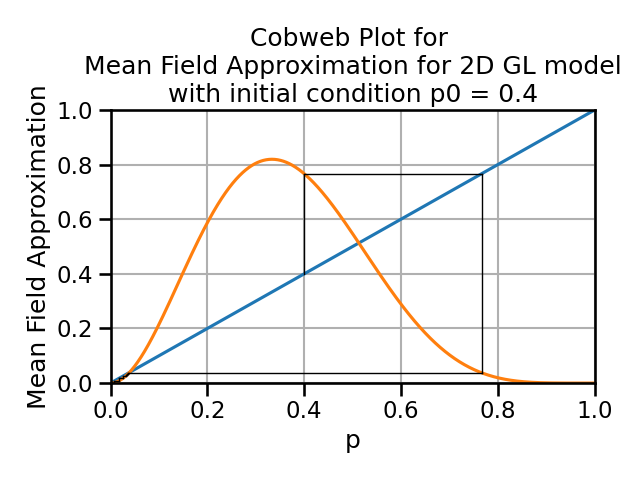
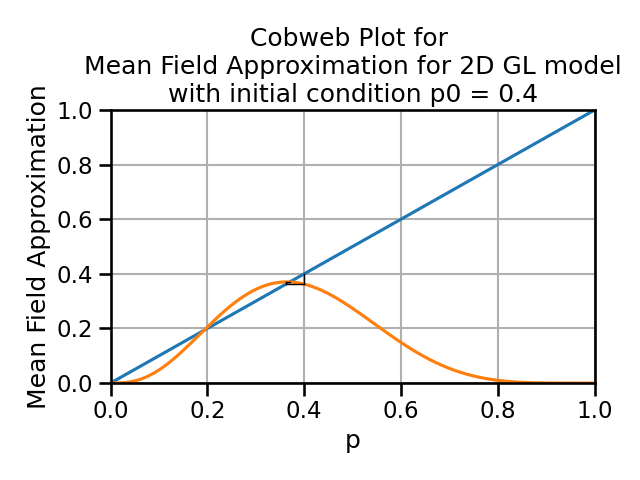
update Q12.7

diff --git a/homeworks/HW2/scripts/Q12.7/GL2D_Simulation.py b/homeworks/HW2/scripts/Q12.7/GL2D_Simulation.py
@@ -9,32 +9,58 @@ def game_of_life_step(grid):
                     if (i != 0 or j != 0))
     return (neighbors == 3) | (grid & (neighbors == 2))
 
-# Initialize the grid
+# Function to run the simulation for a given number of iterations
+def run_simulation(p0, size, iterations):
+    grid = np.random.choice([0, 1], size=(size, size), p=[1-p0, p0])
+    densities = []
+
+    for _ in range(iterations):
+        grid = game_of_life_step(grid)
+        densities.append(np.mean(grid))
+    
+    return densities
+
+# Parameters
 size = 100
-grid = np.random.choice([0, 1], size=(size, size), p=[0.5, 0.5])
-
-# Run the simulation and track the average density
 iterations = 100
-densities = []
+monte_carlo_runs = 100
 
-for _ in range(iterations):
-    grid = game_of_life_step(grid)
-    densities.append(np.mean(grid))
+for p0 in [0.1, 0.2, 0.3, 0.4, 0.5, 0.6, 0.7, 0.8, 0.9]:
+    # Run Monte Carlo simulation
+    all_densities = []
 
-# Mean Field Approximation
-def MeanFieldApproximation_GL2D(p):
-    return p * (28 * p**2 * (1 - p)**6 + 56 * p**3 * (1 - p)**5) + (1 - p) * (56 * p**3 * (1 - p)**5)
+    for _ in range(monte_carlo_runs):
+        densities = run_simulation(p0, size, iterations)
+        all_densities.append(densities)
 
-# Plotting
-sns.set_context('talk')
-p = np.linspace(0, 1, 100)
-mfa = [MeanFieldApproximation_GL2D(pi) for pi in p]
+    # Convert to numpy array for easier manipulation
+    all_densities = np.array(all_densities)
 
-plt.plot(densities, label='Simulation', color='deepskyblue')
-plt.plot(p, mfa, label='Mean Field Approximation', color='red')
-plt.xlabel('Iterations')
-plt.ylabel('Average Density')
-plt.title('Mean Field Approximation vs. Simulation')
-plt.legend()
-plt.tight_layout()
-plt.savefig('../../simulation_figures/Q12.7/MeanFieldApproximation_vs_Simulation.png')
+    # Calculate mean and 95% confidence interval
+    mean_densities = np.mean(all_densities, axis=0)
+    std_densities = np.std(all_densities, axis=0)
+    ci_lower = mean_densities - 1.96 * std_densities / np.sqrt(monte_carlo_runs)
+    ci_upper = mean_densities + 1.96 * std_densities / np.sqrt(monte_carlo_runs)
+
+    # Mean Field Approximation
+    def MeanFieldApproximation_GL2D(p):
+        return p * (28 * p**2 * (1 - p)**6 + 56 * p**3 * (1 - p)**5) + (1 - p) * (56 * p**3 * (1 - p)**5)
+
+    # Iterate MFA for the same number of steps as the simulation
+    mfa_values = [p0]  # Initial density
+    for _ in range(iterations - 1):
+        mfa_values.append(MeanFieldApproximation_GL2D(mfa_values[-1]))
+
+    # Plotting
+    sns.set_context('talk')
+
+    plt.figure(figsize=(12, 8))
+    plt.plot(mean_densities, label='Simulation Mean')
+    plt.fill_between(range(iterations), ci_lower, ci_upper, color='b', alpha=0.2, label='95% CI')
+    plt.plot(range(iterations), mfa_values, label='Mean Field Approximation', linestyle='--')
+    plt.xlabel('Iterations')
+    plt.ylabel('Average Density')
+    plt.title('Comparison of Mean Field Approximation and Simulation with 95% CI')
+    plt.legend()
+    plt.tight_layout()
+    plt.savefig(f'../../simulation_figures/Q12.7/MeanFieldApproximation_vs_Simulation_p0={p0}.png')

diff --git a/homeworks/HW2/scripts/Q12.7/MeanFieldApproximation_GL2D.py b/homeworks/HW2/scripts/Q12.7/MeanFieldApproximation_GL2D.py
@@ -3,7 +3,7 @@ import matplotlib.pyplot as plt
 import seaborn as sns
 
 def MeanFieldApproximation_GL2D(p):
-    return -84*p**8 + 392*p**7 - 700*p**6 + 560*p**5 - 140*p**4 - 56*p**3 + 28*p**2
+    return p * (28 * p**2 * (1 - p)**6 + 56 * p**3 * (1 - p)**5) + (1 - p) * (56 * p**3 * (1 - p)**5)
 
 # Parameters for cobweb plot
 p_min, p_max = 0, 1
